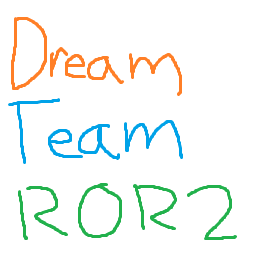
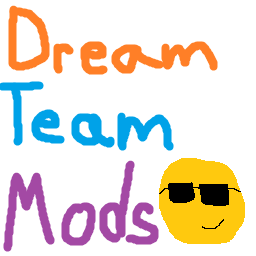
v1.3.0

diff --git a/CHANGELOG.md b/CHANGELOG.md
@@ -10,3 +10,7 @@
 - Added TooManyFriends
 - Added ItemStats
 - Added ActuallyFaster
+
+# 1.3.0
+- Added Mandr
+- Changed icon.png
